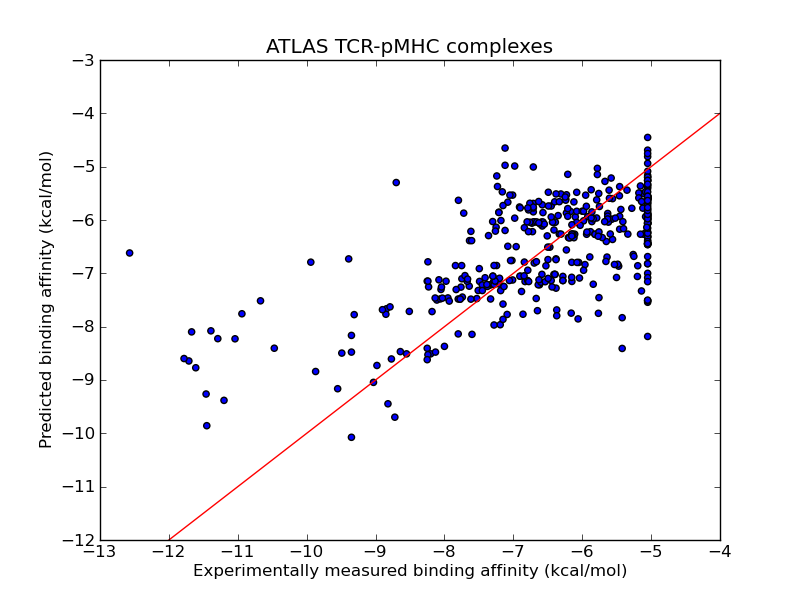
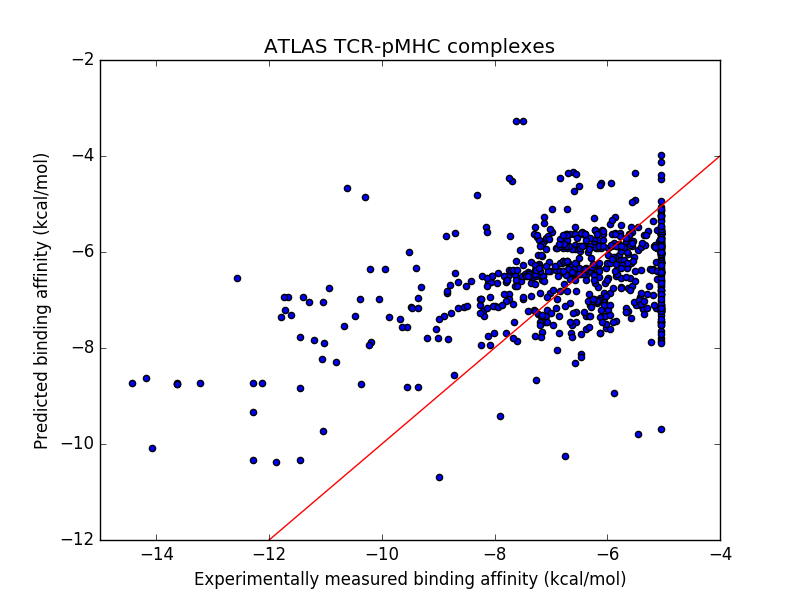
LOCOCV

diff --git a/scoring/linear_reg.py b/scoring/linear_reg.py
@@ -2,8 +2,8 @@
 
 import argparse
 import numpy as np
-from sklearn import linear_model
 import statsmodels.api as sm
+import matplotlib.pyplot as plt
 
 parser = argparse.ArgumentParser(description='Perform multilinear regression on ATLAS data with Rosetta energy terms')
 parser.add_argument('-in', help='data table output by energy_table.py', type=str, dest='infile', required=True)
@@ -30,12 +30,13 @@ def feature_scale(d):
 	'''
 	return (d - np.mean(d)) / np.std(d)
 
-def load_data(fh, col_ind):
+def load_data(fh, col_ind, pdb_ind):
 	'''
 	Load data into design matrix and dependent variable vector for dG values
 	'''
 	dGs = []
 	X = []
+	pdbs = []
 	header = fh.readline().split('\t')
 	dG_col = header.index('DeltaG_kcal_per_mol')
 
@@ -43,6 +44,10 @@ def load_data(fh, col_ind):
 		# Dependent variable
 		split_line=np.array(line.split('\t'))
 		dG = split_line[dG_col]
+		# PDBs
+		pdb = split_line[pdb_ind]
+		pdbs.append(pdb)
+
 		# Limit affinity to max Kd of 200 mM ~ -5.05 kcal/mol
 		if is_float(dG):
 			if float(dG) > -5.05:
@@ -58,16 +63,49 @@ def load_data(fh, col_ind):
 	
 	dGs = np.array(dGs)
 	X = np.array(X)
-	return dGs, X
+	pdbs = np.array(pdbs)
+	header = np.array(header)[np.concatenate((col_ind, pdb_ind))]
 
-def calculate_thetas(X, y):
+	return dGs, X, header, pdbs
+
+def LOCOCV(i, X, dGs, pdbs):
+	'''Leave one complex out cross-validation (LOCOCV)'''
+	energies = X[i,:]
+	pdb = pdbs[i,:]
+	true_pdb = pdb[0]
+	temp_pdb = pdb[1]
+	
+	if true_pdb != '':
+		
+		train = X[np.all(pdbs != true_pdb, axis=1), :]
+		y = dGs[np.all(pdbs!= true_pdb, axis=1)]
+		res_ols = sm.OLS(y, train).fit()
+		prediction = res_ols.predict(energies)
+		print res_ols.params
+		return float(prediction)
+		
+
+	elif temp_pdb != '':
+		train = X[np.all(pdbs != temp_pdb, axis=1), :]
+		y = dGs[np.all(pdbs!= temp_pdb, axis=1)]
+		res_ols = sm.OLS(y, train).fit()
+
+		prediction = res_ols.predict(energies)
+		print res_ols.params
+		return float(prediction)
+
+	else:
+		print 'ERROR: PDB info missing'
+		quit()
+
+
+def RMSE(pred, true):
 	'''
-	Calculate theta coefficients by ordinary least squares
+	Calculate root mean square error
 	'''
-	X = np.mat(X)
-	y = y.reshape(len(y),1)
-	thetas = (X.T*X).I*X.T*y
-	return thetas
+	rmse = np.sqrt(np.mean(np.square(pred-true)))
+	return rmse
+
 
 def main():
 	######################################################
@@ -77,35 +115,51 @@ def main():
 	IN = open(args.infile, 'r')
 	# Column indices for energy terms
 	feature_cols = [37,40,41,42,43,44,45,46]
+	pdb_cols = [16, 21]
 	num_features = len(feature_cols)
 	# Load data and normalize
-	dGs, X =  load_data(IN, feature_cols)
+	dGs, X, header, pdbs =  load_data(IN, feature_cols, pdb_cols)
 	num_samples=len(dGs)
 	X = add_constant(X)
 	for i in range(1, num_features + 1):
 		X[:,i] = feature_scale(X[:,i])
 	
-
-	print 'Sklearn'
-	lr = linear_model.LinearRegression()
-	lr.fit(X,dGs)
-	print 'Coef:'
-	print lr.coef_
-	print 'Int:'
-	print lr.intercept_
-
-
-	print '\nAnalytical'
-	thetas = calculate_thetas(X, dGs)
-	print 'Coef:'
-	print thetas
-
 	print '\nStatsmodel'
 	res_ols = sm.OLS(dGs, X).fit()
 	print 'Coef:'
 	print res_ols.params
 	print res_ols.summary()
 	print res_ols.pvalues
+
+	print '\nHeader'
+	print header
+
+	# Leave one complex out cross-validation (LOCOCV)
+	predictions = []
+	for i in range(len(X)):
+		prediction = LOCOCV(i, X, dGs, pdbs)
+		predictions.append(prediction)
+	predictions = np.array(predictions)
+
+	# Stats
+	testErr = RMSE(predictions, dGs)
+	print '*******************************'
+	print 'RMSE: ' + str(testErr) + ' kcal/mol'
+	r = np.corrcoef(predictions, dGs)
+	print 'Pearson\'s r: ' + str(r[0,1])
+	print '*******************************'
+	
+	plt.plot(range(-15,1), range(-15,1), c='r')
+	plt.xlim(-15,-4)
+	plt.ylim(-12,-2)
+	plt.scatter(dGs, predictions)
+	plt.title('ATLAS TCR-pMHC complexes')
+	plt.xlabel('Experimentally measured binding affinity (kcal/mol)')
+	plt.ylabel('Predicted binding affinity (kcal/mol)')
+	plt.savefig('prediction_scatterplot.png')
+
+	
+
 
 if __name__ == '__main__':
 	main()
